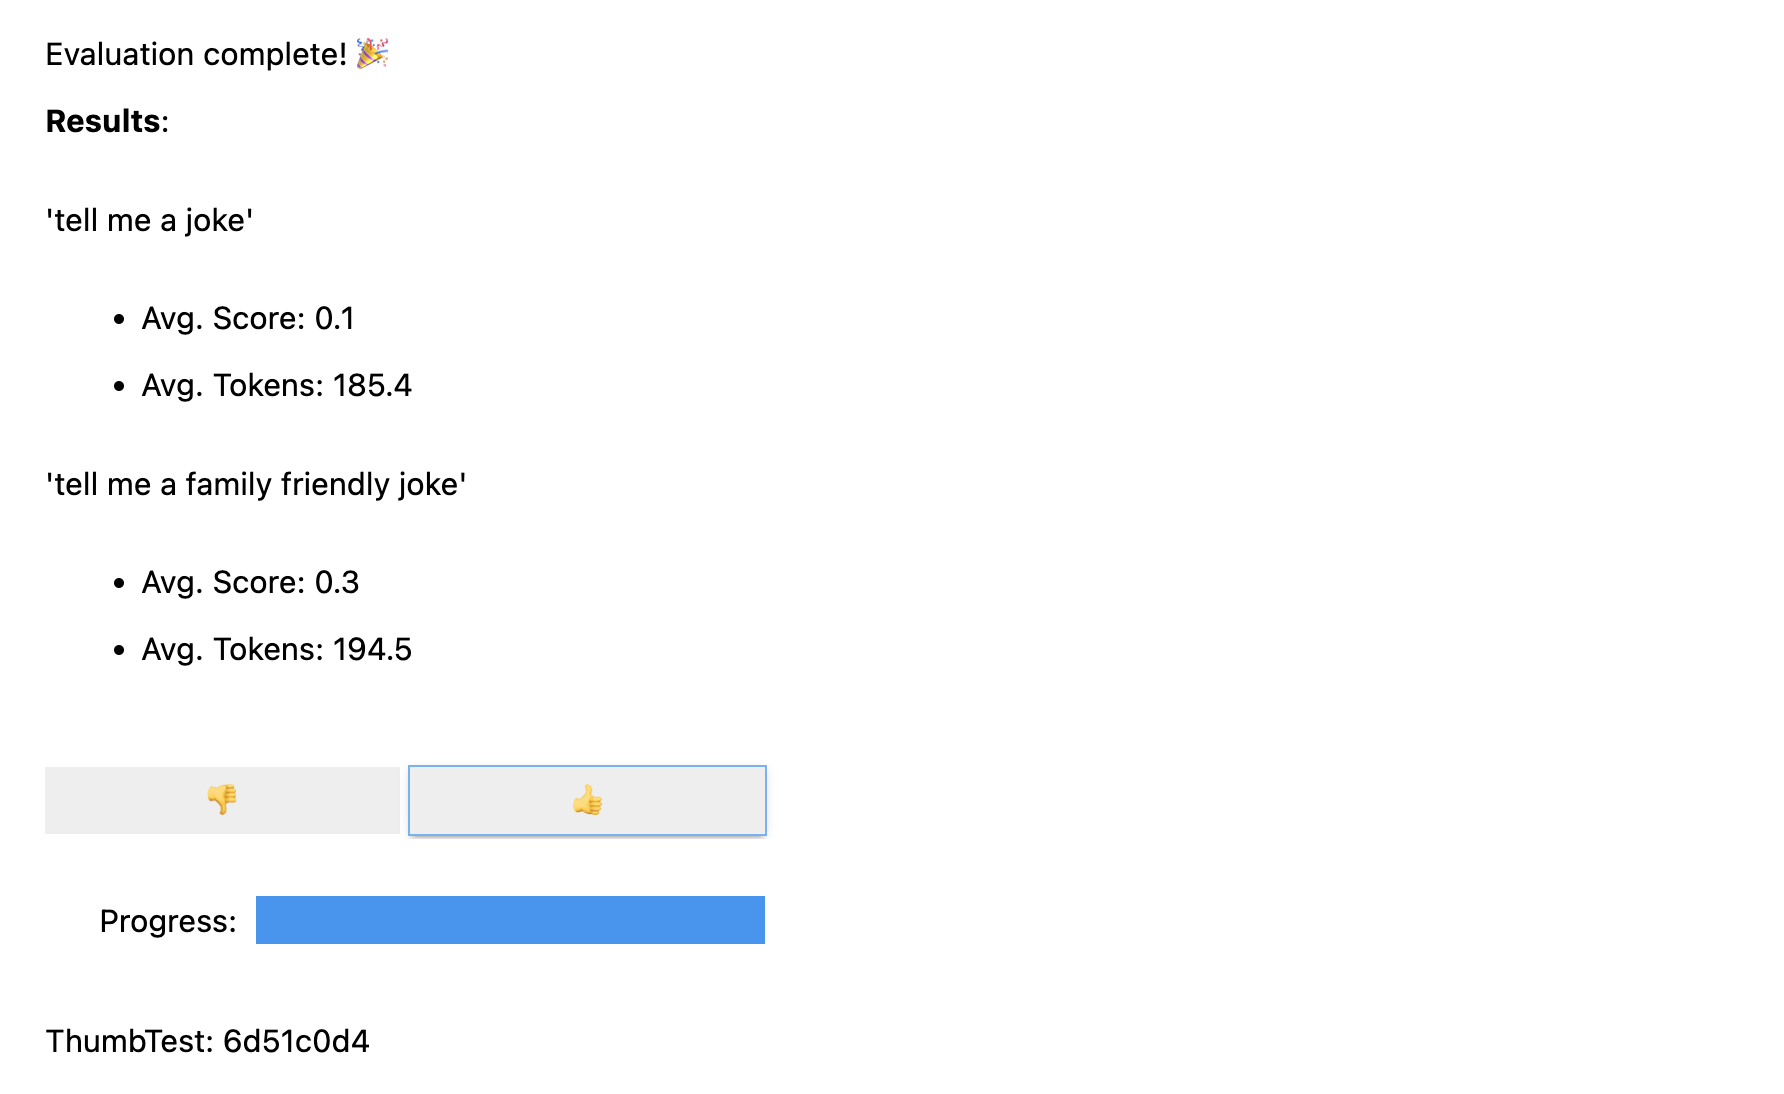
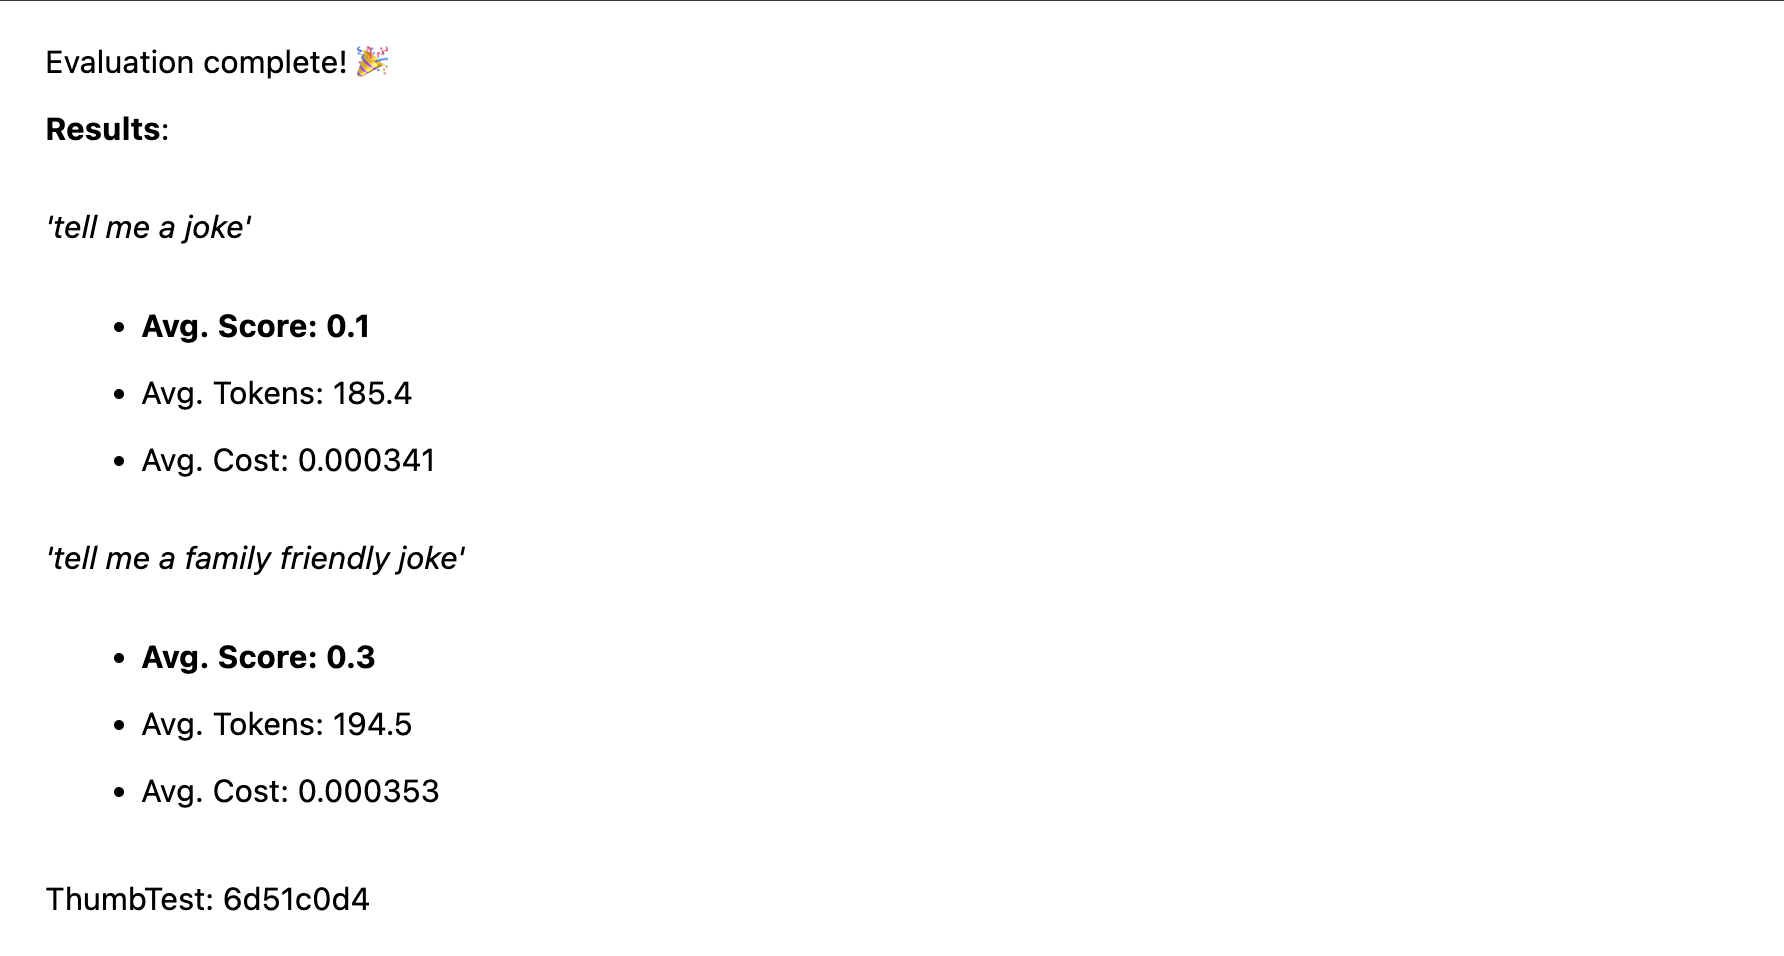
added more to the readme, fixed bug with run idx

diff --git a/src/thumb/core.py b/src/thumb/core.py
@@ -53,6 +53,12 @@ class ThumbTest:
         os.environ["LANGCHAIN_PROJECT"] = f"ThumbTest: {self.tid}"
         os.environ["LANGCHAIN_ENDPOINT"] = "https://api.smith.langchain.com"
 
+    def __str__(self):
+        combinations = len(self.prompts) * len(self.cases) * len(self.models) * self.runs
+        if "base-case" in self.cases.keys():
+            return f"ThumbTest: {self.tid}\n\nPrompts: {len(self.prompts)}\nCases: {len(self.cases) - 1}\nModels: {len(self.models)}\nRuns: {self.runs}\n\n{len(self.prompts)} x {len(self.cases) - 1} x {len(self.models)} x {self.runs} = {combinations}"
+        return f"ThumbTest: {self.tid}\n\nPrompts: {len(self.prompts)}\nCases: {len(self.cases)}\nModels: {len(self.models)}\nRuns: {self.runs}\n\n{len(self.prompts)} x {len(self.cases)} x {len(self.models)} x {self.runs} = {combinations}"
+    
     def add_prompts(self, prompts):
         for prompt in prompts:
             pid = f"pid-{hash_id(prompt)}"
@@ -96,7 +102,7 @@ class ThumbTest:
                         
                         test_case = self.cases[cid]
                         
-                        responses = get_responses(prompt, test_case, model, runs, self.tid, pid, cid)
+                        responses = get_responses(prompt, test_case, model, runs, pid, cid)
 
                         # Ensure pid is in the dictionary
                         if pid not in self.data:
@@ -112,8 +118,12 @@ class ThumbTest:
                         
                         # Add the responses to the dictionary
                         for idx, response in enumerate(responses):
+                            print(f"Adding response {idx + 1} of {runs} for {pid} {cid} {model}")
                             response["feedback"] = None
-                            loc = len(self.data[pid][cid][model].keys()) + idx
+                            print("idx", idx)
+                            print("len", len(self.data[pid][cid][model].keys()))
+                            loc = len(self.data[pid][cid][model].keys()) + 1
+                            print(f"Adding response at index {loc}")
                             self.data[pid][cid][model][loc] = response
 
                         self._save_data()
@@ -226,24 +236,29 @@ class ThumbTest:
                 'prompt': prompt,
                 'feedback': [],
                 'tokens': [],
+                'cost': [],
             }
             # Loop through the cases
             for cid in self.data[pid].keys():
                 # Loop through the models
                 for model in self.data[pid][cid].keys():
                     # Loop through the responses
-                    for idx, response in self.data[pid][cid][model].items():
+                    for response in self.data[pid][cid][model].values():
 
                         # Add the feedback to the list of scores
                         scores[pid]['feedback'].append(response['feedback'])
 
                         # Add the tokens to the total
                         scores[pid]['tokens'].append(response['tokens']) 
+
+                        # Add the cost to the total                            
+                        scores[pid]['cost'].append(response['cost']) 
         
         # Calculate the average score
         for pid in scores.keys():
             scores[pid]['avg_score'] = sum(scores[pid]['feedback']) / len(scores[pid]['feedback'])
             scores[pid]['avg_tokens'] = sum(scores[pid]['tokens']) / len(scores[pid]['tokens'])
+            scores[pid]['avg_cost'] = sum(scores[pid]['cost']) / len(scores[pid]['cost'])
         
         return scores
 
@@ -253,6 +268,8 @@ class ThumbTest:
         labels = ["👎", "👍"]
         label_widgets = [widgets.Button(description=label) for label in labels]
 
+        main_box = widgets.VBox()
+
         test_id = widgets.Label(value=f"ThumbTest: {self.tid}")
         response_box = widgets.HTML()
         progress_bar = widgets.IntProgress(min=0, max=data_len, description="Progress:")
@@ -261,9 +278,10 @@ class ThumbTest:
             nonlocal prepped_data
             if not prepped_data:
                 scores = self.stats()
-                stats = "".join([f"<p>'{score['prompt']}' <ul><li>Avg. Score: {score['avg_score']}</li><li>Avg. Tokens: {score['avg_tokens']}</li></ul></p>" for score in scores.values()])
+                stats = "".join([f"<p><i>'{score['prompt']}'</i><ul><li><b>Avg. Score: {score['avg_score']*100:0.2f}%</b></li><li>Avg. Tokens: {score['avg_tokens']:0.2f}</li><li>Avg. Cost: ${score['avg_cost']:0.5f}</li></ul></p>" for score in scores.values()])
                 response_box.value = f"Evaluation complete! 🎉<br><b>Results</b>: <br>{stats}"
-                progress_bar.value = data_len
+                # Update children of main_box to exclude the label_widget
+                main_box.children = [response_box, test_id]
                 # cache the feedback
                 self._save_data()
                 return
@@ -292,9 +310,11 @@ class ThumbTest:
         for label_widget in label_widgets:
             label_widget.on_click(on_button_clicked)
 
-        label_widget = widgets.HBox(label_widgets)
+        label_box = widgets.HBox(label_widgets)
+        main_box.children = [response_box, label_box, progress_bar, test_id]
+        
         update_response()
-        display(response_box, label_widget, progress_bar, test_id)
+        display(main_box)
         
     def export_to_csv(self, filename=None):
         if not filename:

diff --git a/src/thumb/llm.py b/src/thumb/llm.py
@@ -1,7 +1,7 @@
 from langchain.chat_models import ChatOpenAI
 from langchain.prompts import HumanMessagePromptTemplate, ChatPromptTemplate
-from langchain.callbacks.manager import tracing_v2_enabled
 from langchain.callbacks import get_openai_callback
+from tqdm.auto import tqdm
 
 def format_chat_prompt(prompt, case):
     human_template = HumanMessagePromptTemplate.from_template(prompt)
@@ -13,18 +13,18 @@ def format_chat_prompt(prompt, case):
     
     return formatted_prompt.to_messages()
 
-def get_responses(prompt, test_case, model, runs, tid, pid, cid):
+def get_responses(prompt, test_case, model, runs, pid, cid):
     chat = ChatOpenAI(model=model)
     formatted_prompt = format_chat_prompt(prompt, test_case)
 
     responses = []
     with get_openai_callback() as cb:
-        for _ in range(runs):
+        for _ in tqdm(range(runs)):
             try:
                 response_content = chat(formatted_prompt, tags=[pid, cid]).content
             except Exception as e:
                 response_content = str(e)
-            finally:
+            finally:                
                 response_data = {
                     "content": response_content,
                     "tokens": cb.total_tokens or 0,

diff --git a/README.md b/README.md
@@ -34,15 +34,15 @@ In Jupyter Notebooks a simple user interface is displayed for blind rating respo
 Once all responses have been rated, the following performance statistics are calculated broken down by prompt template:
 - `avg_score` amount of positive feedback as a percentage of all runs
 - `avg_tokens`: how many tokens were used across the prompt and response
+- `avg_cost`: an estimate of how much the prompt cost to run on average
 
 A simple report is displayed in the notebook, and the full data is saved to a CSV file `thumb/ThumbTest-{TestID}.csv`.
 
 ![image](/img/eval.png)
 
-
 ## Functionality
 
-### Set up test cases
+### Test cases
 
 Test cases are when you want to test a prompt template with different input variables. For example, if you want to test a prompt template that includes a variable for a comedian's name, you can set up test cases for different comedians.
 
@@ -64,6 +64,44 @@ test = thumb.test([prompt_a, prompt_b], cases)
 
 Every test case will be run against every prompt template, so in this example you'll get 6 runs (3 test cases x 2 prompt templates). Every test case must include a value for each variable in the prompt template.
 
+Prompts may have multiple variables in each test case. For example, if you want to test a prompt template that includes a variable for a comedian's name and a joke topic, you can set up test cases for different comedians and topics.
+
+```Python
+# set up a prompt templates for the a/b test
+prompt_a = "tell me a joke about {subject} in the style of {comedian}"
+prompt_b = "tell me a family friendly joke about {subject} in the style of {comedian}"
+
+# set test cases with different input variables
+cases = [
+  {"subject": "joe biden", "comedian": "chris rock"}, 
+  {"subject": "joe biden", "comedian": "ricky gervais"}, 
+  {"subject": "joe biden", "comedian": "robin williams"},
+  {"subject": "donald trump", "comedian": "chris rock"}, 
+  {"subject": "donald trump", "comedian": "ricky gervais"}, 
+  {"subject": "donald trump", "comedian": "robin williams"},
+  ]
+
+# generate the responses
+test = thumb.test([prompt_a, prompt_b], cases)
+```
+
+Every case is tested against every prompt, in order to get a fair comparison of the performance of each prompt given the same input data.
+
+### Model testing
+
+```Python
+# set up a prompt templates for the a/b test
+prompt_a = "tell me a joke"
+prompt_b = "tell me a family friendly joke"
+
+# generate the responses
+test = thumb.test([prompt_a, prompt_b], models=["gpt-4", "gpt-3.5-turbo"])
+```
+
+### Parameters
+
+The `thumb.test` function takes the following parameters:
+
 #### Required
 
 - **prompts**: an array of prompts (strings) to be tested
@@ -78,12 +116,67 @@ If you have 10 test runs with 2 prompt templates and 3 test cases, that's `10 x 
 
 Langchain tracing to [LangSmith](https://smith.langchain.com/) is automatically enabled if the `LANGCHAIN_API_KEY` is set as an environment variable (optional).
 
+### Loading and adding
 
-## About Prompt Optimization
+the `.test()` function returns a `ThumbTest` object. You can add more prompts or cases to the test, or run it additional times. You can also generate, evaluate and export the test data at any time.
+
+```Python
+# set up a prompt templates for the a/b test
+prompt_a = "tell me a joke"
+prompt_b = "tell me a family friendly joke"
+
+# generate the responses
+test = thumb.test([prompt_a, prompt_b])
+
+# add more prompts
+test.add_prompts(["tell me a knock knock joke", "tell me a knock knock joke about {subject}"])
+
+# add more cases
+test.add_cases([{"subject": "joe biden"}, {"subject": "donald trump"}])
+
+# run each prompt and case 5 more times
+test.add_runs(5)
+
+# generate the responses
+test.generate()
+
+# rate the responses
+test.evaluate()
+
+# export the test data for analysis
+test.export_to_csv()
+```
+
+Every prompt template gets the same input data from every test case, but the prompt does not need to use all of the variables in the test case. As in the example above, the `tell me a knock knock joke` prompt does not use the `subject` variable, but it is still generated once (with no variables) for each test case.
+
+Test data is cached in a local JSON file `thumb/.cache/{TestID}.json` after every set of runs is generated for a prompt and case combination.
+If your test is interrupted, or you want to add to it, you can use the `thumb.load` function to load the test data from the cache.
+
+```Python
+# load a previous test
+test_id = "abcd1234" # replace with your test id
+test = thumb.load(f"thumb/.cache/{test_id}.json")
+
+# run each prompt and case 2 more times
+test.add_runs(2)
+
+# generate the responses
+test.generate()
+
+# rate the responses
+test.evaluate()
+
+# export the test data for analysis
+test.export_to_csv()
+```
+Every run for each combination of prompt and case is stored in the object (and cache), and therefore calling `test.generate()` again will not generate any new responses if more prompts, cases, or runs aren't added. Similarly, calling `test.evaluate()` again will not re-rate the responses you have already rated, and will simply redisplay the results if the test has ended.
+
+
+## About Prompt Testing
 
 The difference between people just playing around with ChatGPT and those using AI in production is evaluation. LLMs respond non-deterministically, and so it's important to test what results look like when scaled up across a wide range of scenarios. Without an evaluation framework you're left blindly guessing about what's working in your prompts (or not).
 
-Serious [prompt engineers](https://www.saxifrage.xyz/post/prompt-engineering) are testing and learning which inputs lead to useful or desired outputs, reliably and at scale. This process is called [prompt optimization](https://www.saxifrage.xyz/post/prompt-optimization), and the process looks like this:
+Serious [prompt engineers](https://www.saxifrage.xyz/post/prompt-engineering) are testing and learning which inputs lead to useful or desired outputs, reliably and at scale. This process is called [prompt optimization](https://www.saxifrage.xyz/post/prompt-optimization), and it looks like this:
 
 1. Metrics – Establish how you'll measure the performance of the responses from the AI.
 2. Hypothesis – Design one or more prompts that may work, based on the latest research.

diff --git a/TODO.md b/TODO.md
@@ -1,14 +1,18 @@
-## Active Tasks
+## TODOs
 
 ### test
 - add async to the calls
 - move tags to metadata not tracing
 - merging two tests together
 - handle prompts being strings or arrays
+- move models to having unique ids instead of calling by name
 - handle non chat models
 - handle non openai models
 - handle prompts being langchain templates, chains, agents
 - handle reference answers for test cases
+- calculate number of tests and display
+- add a cancel button to stop the tests
+- add a confirmation before running tests
 
 ### evals
 - set custom criteria for ratings
@@ -17,6 +21,7 @@
 - handle custom labels instead of thumbs
 - early stopping mechanism once 95% confidence reached
 - calculate the embedding distance between the reference and the response
+- move the thumbs to the right hand side
 
 ### stats
 - calculate the confidence with bayesian stats
@@ -25,6 +30,7 @@
 - support pricing of alternatives to openai (anthropic)
 - set the success metric
 - set the control prompt / model
+- add latency to the stats
 
 ## interface
 - spin up gradio user interface
@@ -35,4 +41,6 @@
 
 ## other ideas
 - full testing suite to spot breaking changes
+- types and errors when the format is wrong
 - image model testing as well as LLMs
+- generate new prompts, test cases with GPT-4
